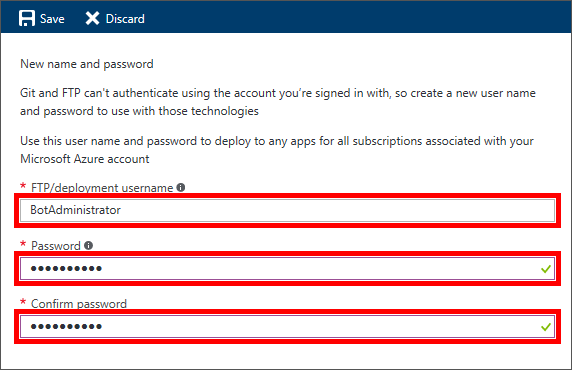
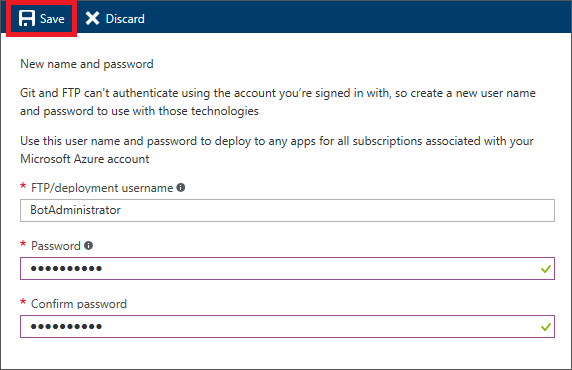
Edited Exercises 1-4 of Bots lab

diff --git a/Workshop/15. Bots/Microsoft Bot Framework HOL.md b/Workshop/15. Bots/Microsoft Bot Framework HOL.md
@@ -47,7 +47,7 @@ This hands-on lab includes the following exercises:
 - [Exercise 2: Update Microsoft QnA Service settings](#Exercise2)
 - [Exercise 3: Populate and publish a QnA knowledge base](#Exercise3)
 - [Exercise 4: Set up continuous integration](#Exercise4)
-- [Exercise 5: Debug our bot](#Exercise5)
+- [Exercise 5: Debug your bot](#Exercise5)
 - [Exercise 6: Update your bot](#Exercise6)
 - [Exercise 7: Test the bot](#Exercise7)
  
@@ -80,7 +80,7 @@ The first step in creating a bot is to provide a location for the bot to be host
 
     _Opening the resource group_
   
-1. Wait until "Deploying" changes to "Succeeded" indicating your Bot Service has been successfully deployed.
+1. Wait until "Deploying" changes to "Succeeded" indicating that the Bot Service was successfully deployed.
 
     ![Successful deployment](Images/portal-app-deployment-status.png)
 
@@ -88,9 +88,9 @@ The first step in creating a bot is to provide a location for the bot to be host
   
 1. Click **qnafactbot** (or the name you entered in Step 3) to open the App Service created for your bot.
 
-    ![Opening the bot service](Images/portal-click-bot-service.png)
+    ![Opening the Bot Service](Images/portal-click-bot-service.png)
 
-    _Opening the bot service_
+    _Opening the Bot Service_
   
 1. Click **Create Microsoft App ID and password**. If you are asked to sign in again, do so using your Microsoft account.
 
@@ -128,13 +128,13 @@ The first step in creating a bot is to provide a location for the bot to be host
 
     _Selecting a language and template_
 
-1. Check the **I agree** box, and then click **OK**. 
+1. Check the **I agree** box, and then click **OK**. (If you are presented with the option of connecting to an existing knowledge base or creating a new one, choose the latter.) 
 
     ![Connecting to QnA Maker](Images/connect-bot-to-qnamaker.png)
 
     _Connecting to QnA Maker_
   
-1. After a short delay, the Bot Service will open in the portal and display the Bot Service editor, as pictured below. The Bot Service has now been created, and the following services have been provisioned and configured:
+1. After a brief pause, the Bot Service will open in the portal and display the Bot Service editor, as pictured below. The Bot Service has now been created, and the following services have been provisioned and configured:
 
 	- A Microsoft Bot registration
 	- A Microsoft App registration
@@ -145,7 +145,7 @@ The first step in creating a bot is to provide a location for the bot to be host
 
     _The Bot Service editor_  
 
-1. To make sure these services can communicate with each other, you can test bot communication in the Azure Bot Service editor. To test, type the word "hi" (without quotation marks) into the chat window on the right side of the page.
+1. To make sure these services can communicate with each other, you can test bot communication in the Azure Bot Service editor. To test, type the word "hi" (without quotation marks) into the chat window on the right side of the page. Then press **Enter** or click the paper-airplane icon (which stands for "Send").
 
     ![Testing bot communication](Images/portal-send-chat-test.png)
 
@@ -212,12 +212,12 @@ Although your bot has been created, it can only understand the word "hi" by resp
 
     _Chatting with the bot_
 
-This is a great start, but a simple reply to the greeting "hi" doesn't demonstrate a lot of value. To give your bot some meaningful content to work with, the next step is to populate the knowledge base with more questions and answers and publish it for your bot to use.
+This is a great start, but a simple reply to the greeting "hi" doesn't demonstrate a lot of value. To give your bot some meaningful content to work with, the next step is to populate the knowledge base with more questions and answers.
 
 <a name="Exercise3"></a>
 ## Exercise 3: Populate and publish a QnA knowledge base ##
 
-The Microsoft QnA Maker tool is designed to understand question and answer pairs from a variety of methods, including automatic population from a website FAQ page, manual entry, or even a tab-separated text file on your local computer. In this exercise, you will use all of these techniques to create a set of question and answer pairs.
+You can enter questions and answers into a QnA Maker knowledge base manually, or you can import them from a variety of sources, including Web sites and local text files. In this exercise, you will use each of these techniques to populate the knowledge base with questions and answers and then publish it for your bot to use.
 
 1. Click **Settings** to the return to the Settings page in the [Microsoft QnA Maker portal](https://qnamaker.ai/).
  
@@ -231,37 +231,37 @@ The Microsoft QnA Maker tool is designed to understand question and answer pairs
 	https://traininglabservices.azurewebsites.net/help/faqs.html
 	```
 
-1. Click **Save and retrain** to instruct QnA Maker to populate the Knowledge Base with questions and answers from the Web site whose URL you provided.
+1. Click **Save and retrain** to populate the knowledge base with questions and answers from the Web site whose URL you provided.
  
-    ![Populating the Knowledge Base with questions and answers](Images/qna-add-faq-url.png)
+    ![Populating the knowledge base with questions and answers](Images/qna-add-faq-url.png)
 
-    _Populating the Knowledge Base with questions and answers_
+    _Populating the knowledge base with questions and answers_
 
 1. Click **Knowledge Base** and confirm that six new questions and answers were added. Then click **Save and retrain** to save the changes.
 
-    ![The updated Knowledge Base](Images/qna-updated-kb-01.png)
+    ![The updated knowledge base](Images/qna-updated-kb-01.png)
 
-    _The updated Knowledge Base_
+    _The updated knowledge base_
 
 1. Click **Test** to return to the Test page. Type "What's the largest city in the world?" into the box at the bottom of the chat window and press **Enter**. Confirm that the bot responds as shown below.
  
-    ![Testing the updated Knowledge Base](Images/qna-test-largest-city.png)
+    ![Testing the updated knowledge base](Images/qna-test-largest-city.png)
 
-    _Testing the updated Knowledge Base_
+    _Testing the updated knowledge base_
 
 1. The knowledge base only contains a few questions and answers, but can easily be updated to include more. You can even import questions and answers stored in text files on your computer. To demonstrate, click **Replace Knowledge Base** in the upper-left corner of the portal.
  
-    ![Replacing the Knowledge Base](Images/qna-click-replace-kb.png)
+    ![Replacing the knowledge base](Images/qna-click-replace-kb.png)
 
-    _Replacing the Knowledge Base_
+    _Replacing the knowledge base_
 
 1. Browse to the "Resources" folder included with this lab and select the text file named **Final QnA.txt**. Click **OK** when prompted to confirm that importing this file will overwrite existing questions and answers.
  
 1. Click **Knowledge Base** and confirm that 14 new questions and answers appear in the Knowledge Base. (The six you imported from the URL are still there, despite the fact that you were warned that they would be overwritten.) Then click **Save and retrain** to save the changes.
 
-    ![The updated Knowledge Base](Images/qna-updated-kb-02.png)
+    ![The updated knowledge base](Images/qna-updated-kb-02.png)
 
-    _The updated Knowledge Base_
+    _The updated knowledge base_
 
 1. Click **Test** to return to the Test page. Type "What book has sold the most copies?" into the box at the bottom of the chat window and press **Enter**. Confirm that the bot responds as shown below. 
  
@@ -269,7 +269,7 @@ The Microsoft QnA Maker tool is designed to understand question and answer pairs
 
     _Chatting with the bot_
 
-1. The Knowledge Base now contains 20 questions and answers, but an invalid character is present in the answer in row 7. To remove the character, click **Knowledge Base** to return to the Knowledge Base page. Locate the invalid character in row 7 between the words "most" and "Emmys," and replace it with a space character. Then click **Save and retrain**.
+1. The knowledge base now contains 20 questions and answers, but an invalid character is present in the answer in row 7. To remove the character, click **Knowledge Base** to return to the Knowledge Base page. Locate the invalid character in row 7 between the words "most" and "Emmys," and replace it with a space character. Then click **Save and retrain**.
  
     ![Editing answer #7](Images/qna-invalid-char.png)
 
@@ -277,177 +277,130 @@ The Microsoft QnA Maker tool is designed to understand question and answer pairs
 
 1. Click **Publish** to publish the QnA Knowledge Base so it can be used with a bot.
  
-    ![Publishing knowledge base changes](Images/qna-click-publish.png)
+    ![Publishing the knowledge base](Images/qna-click-publish.png)
 
-    _Publishing knowledge base changes_
+    _Publishing the knowledge base_
 
 1. When asked to "Review your changes,", click **Publish**. After a brief pause, you should be notified that the service has been deployed.
  
-    ![Reviewing knowledge base publishing changes](Images/qna-review-publishing-changes.png)
+    ![Reviewing changes](Images/qna-review-publishing-changes.png)
 
-    _Reviewing knowledge base publishing changes_
+    _Reviewing changes_
 
-The QnA Knowledge Base has been populated with questions and answers and published for use in a bot. In the remaining exercises, you will use Visual Studio Code to work with the Microsoft Bot Framework code created for you in [Exercise 1](#Exercise1).
+The QnA knowledge base has been populated with questions and answers and published for use in a bot. In the remaining exercises, you will use Visual Studio Code to work with the Microsoft Bot Framework code created for you in [Exercise 1](#Exercise1).
 
 <a name="Exercise4"></a>
 ## Exercise 4: Set up continuous integration ##
 
 Publishing changes to your bot project often involves a number of steps, since you typically work with code in a local development environment, such as Visual Studio Code, but the final code needs to exist somewhere bot users can easily access. Since an Azure Bot Service is a type of Azure App Service, you can leverage the "continuous integration" feature of Azure App Services to keep your code synchronized with external repositories, such as Visual studio Team Services or GitHub.
 
-1. Open the Azure Portal dashboard (if it’s not already open from Exercise 1) and click the **“hamburger”** icon to open the side drawer menu.
-1. Click **Resource Groups** followed by **BotsResourceGroup**.
+1. Return to the Azure Portal and open the Bot Service you created in [Exercise 1](#Exercise1) if it isn't already open.
 
-    ![Opening the resource group](Images/portal-open-resource-group.png)
+    ![Opening the Bot Service](Images/portal-click-bot-service.png)
 
-    _Opening the resource group_
+    _Opening the Bot Service_
   
-1. Select the **Overview** tab.
-1. Click **qnafactbot** (or the name you used to create the Azure Bot Service in Exercise 1, Step 3) to open the Azure Bot Service editor for the bot.
+1. Click **Settings**, and then click **Configure**.
 
-    ![Opening the bot service](Images/portal-click-bot-service.png)
+    ![Expanding the "Continuous integration" panel](Images/portal-expand-configure.png)
 
-    _Opening the bot service_
+    _Expanding the "Continuous integration" panel_
   
-1. Select the **Settings** tab in the Bot Service editor. 
-1. Expand the **Configure** node under the "Continuous integration" group.
+1. Click the link to the zip file containing source code. Once the download is complete, unzip the zip file and copy its contents to the local folder of your choice.
 
-    ![Expanding the Continuous integration Configure node](Images/portal-expand-configure.png)
+    ![Downloading the source code](Images/portal-click-download-source.png)
 
-    _Expanding the Continuous integration Configure node_
+    _Downloading the source code_
   
-1. Click the zip file link referenced to the right of "Download your source code".
+1. Scroll down the page and click the **Open** button to the right of "Advanced Settings."
 
-    ![Generating the bot project archive file](Images/portal-click-download-source.png)
+    ![Opening advanced settings](Images/portal-open-advanced-settings.png)
 
-    _Generating the bot project archive file_
-  
-1. After a short delay, the Azure Bot Service will prompt you to save the generated zip file to your local computer. Follow the prompts from your browser to save this file to a location on your local computer, and then extract/unzip the zip file to a location for local use. 
+    _Opening advanced settings_  
 
-    ![Saving the generated archive file](Images/fe-extract-project-archive.png)
+1. Click **Deployment credentials**.
 
-    _Saving the generated archive file_  
+    ![Viewing deployment credentials](Images/portal-select-deployment-credentials.png)
 
-Your Microsoft Bot Framework code is now available on your local computer.
+    _Viewing deployment credentials_  
 
-1. Still in the "Settings" tab of Azure Portal dashboard, locate the "Advanced Settings" panel and click **Open** to open the Azure Bot Service App Service blade.
+1. Enter a user name such as "BotAdministrator" (you will probably have to use a different user name since these must be unique within Azure) and enter "Password_1" as the password. Click **Save** to save your changes. Then close the blade by clicking the **x** in the upper-right corner.
 
-    ![Opening the Advanced Settings blade](Images/portal-open-advanced-settings.png)
+    ![Entering deployment credentials](Images/portal-enter-ci-creds.png)
 
-    _Opening the Advanced Settings blade_  
+    _Entering deployment credentials_  
 
-1. In the "App Deployment" group, click **Deployment Credentials**.
-
-    ![Opening Deployment Credential settings](Images/portal-select-deployment-credentials.png)
-
-    _Opening Deployment Credential settings_  
-
-1. Type in a user name, such as "BotAdministrator" (without quotation marks) in the **FTP/deployment username** entry. This is the username you will use when deploying your bot code throughout the remainder of this lab.
-1. Type in "Password_1" (again, without quotation marks) in the **Password** entry, and then enter it one more time in the **Confirm password** entry. This is the password you will use when deploying your bot code throughout the remainder of this lab.
-
-    ![Entering continuous integration credentials](Images/portal-enter-ci-creds.png)
-
-    _Entering continuous integration credentials_  
-
-1. Click **Save** in the "Deployment credentials" blade to save your credential changes. 
-
-    ![Saving continuous integration credentials](Images/portal-saving-ci-creds.png)
-
-    _Saving continuous integration credentials_  
-
-1. Close the "Deployment credentials" blade by clicking the **"x"** in the top right corner of the blade to return to the Azure Bot Service editor.
- 
-    ![Closing the Deployment credentials blade](Images/portal-close-ci-blade.png)
-
-    _Closing the Deployment credentials blade_  
-
-1. In the "Continuous integration" panel, click **Set up integration source** to open the "Deployments" panel.
+1. Click **Set up integration source**.
  
     ![Setting up an integration source](Images/portal-click-set-source.png)
 
     _Setting up an integration source_  
 
-1. In the "Deployments" panel click **Setup**, and then **Choose Source**.
+1. Click **Setup**, followed by **Choose Source**.
  
-    ![Selecting an integration source](Images/portal-select-source.png)
+    ![Choosing a deployment source](Images/portal-select-source.png)
 
-    _Selecting an integration source_  
+    _Choosing a deployment source_  
 
 1. Select **Local Git Repository** as the deployment source, and then click **OK**. 
  
-    ![Selecting Local Git Repository as the integration source](Images/portal-set-local-git.png)
+    ![Specifying a local Git repository as the deployment source](Images/portal-set-local-git.png)
 
-    _Selecting Local Git Repository as the integration source_  
+    _Specifying a local Git repository as the deployment source_  
 
-	Azure Bot Service continuous integration is now enabled and you can start working with a local copy of the bot code in Visual Studio Code.
-
-	If you haven't installed Visual Studio Code, take a moment to do so now. You can download Visual Studio Code from http://code.visualstudio.com. You should also install [Node.js](https://nodejs.org) and [Git Client](https://git-scm.com/downloads), if it isn't already installed. All these products work cross-platform and can be installed on Windows, macOS, or Linux.
+1. If you haven't installed Visual Studio Code, take a moment to do so now. You can download Visual Studio Code from http://code.visualstudio.com. You should also install [Node.js](https://nodejs.org) and [Git Client](https://git-scm.com/downloads) if they aren't already installed. All of these products work cross-platform and can be installed on Windows, macOS, or Linux.
 
 	> An easy way to determine whether Node.js is installed is to open a terminal window or Command Prompt window and execute a **node -v** command. If the Node.js version number is displayed, then Node.js is installed.
 
-1. Open Visual Studio Code.
-1. From the Visual Studio Code menu select **File** > **Open Folder**, and browse to the archive content extracted in Step 8, then select the **messages** folder and click **Open**.
+1. Start Visual Studio Code. Select **Open Folder** from the **File** menu and browse to the folder to which you copied the contents of the downloaded zip file in Step 3. Then select the "messages" folder and click **Select Folder**.
  
-    ![Opening a folder in Visual Studio Code](Images/vs-open-folder.png)
+    ![Selecting the "messages" folder](Images/fe-select-messages-folder.png)
 
-    _Opening a folder in Visual Studio Code_  
+    _Selecting the "messages" folder_  
 
-    ![Selecting the bot service code messages folder](Images/fe-select-messages-folder.png)
-
-    _Selecting the bot service code messages folder_  
-
-1. Click the **Git** button in the View Bar on the left side of Visual Studio Code, and then click **Initialize Git Repository**. This will initialize a Git repository for the bot project locally.
+1. Click the **Git** button in the ribbon on the left, and then click **Initialize Git Repository**. This will initialize a local Git repository for the project.
 
     ![Initializing the local Git repository](Images/vs-init-git-repo.png)
 
     _Initializing the local Git repository_  
 
-1. Locate the Git commit label window and type in "First commit" in the message entry, and then click the **checkmark icon** to commit your initial project to your local repository. After a short delay, your bot code will be committed to the local Git repository.
+1. Type "First commit" into the message box, and then click the check mark to commit your changes.
 
-    ![Committing bot code to the local Git repository](Images/vs-first-git-commit.png)
+    ![Committing changes to the local Git repository](Images/vs-first-git-commit.png)
 
-    _Committing bot code to the local Git repository_  
+    _Committing changes to the local Git repository_  
 
-1. Still, in Visual Studio Code, select **View** > **Integrated Terminal**.
+1. Use Visual Studio Code's **View -> Integrated Terminal** command to open an integrated terminal window inside Visual Studio Code. Execute the following command in the integrated terminal, replacing "[BOT_APP_NAME]" in two places with the name of the Bot Service you entered in [Exercise 1](#Exercise1), Step 3.
 
-    ![Opening the Integrated Terminal](Images/vs-view-terminal.png)
+	```
+	git remote add qnafactbot https://[BOT_APP_NAME].scm.azurewebsites.net:443/[BOT_APP_NAME].git
+	```
 
-    _Opening the Integrated Terminal_  
+1. Select **Command Palette** from the **View** menu to open the command palette. Then type "Git Pub" into the command palette and select **Git Publish**. 
 
-1. Execute the following command in the Integrated Terminal, replacing the values "[BOT_APP_NAME]" with the name of your bot service created in Exercise 1.
+    ![Selecting "Git: Publish" from the command palette](Images/vs-select-git-publish.png)
 
-```
-git remote add qnafactbot https://[BOT_APP_NAME].scm.azurewebsites.net:443/[BOT_APP_NAME].git
-```
+    _Selecting "Git: Publish" from the command palette_  
 
-1. Select **View**  > **Command Palette** to open the VS Code command palette, and then type in "Git Pub" in the command palette and select **Git Publish**. 
-
-    ![Opening the Command Palette](Images/vs-view-command-palette.png)
-
-    _Opening the Command Palette_  
-
-    ![Selecting Git: Publish from the Command Palette](Images/vs-select-git-publish.png)
-
-    _Selecting Git: Publish from the Command Palette_  
-
-1. If prompted to confirm publishing, review the dialog information and click **Publish**.
+1. If prompted to confirm that you want to publish, click **Publish**.
 
     ![Confirming Git publishing](Images/vs-confirm-publish.png)
 
     _Confirming Git publishing_ 
 
-1. If prompted for credentials, enter the Continuous Integration **username** and **password** configured in Steps 3 and 4 of this exercise.
+1. If prompted for credentials, enter the user name and password ("Password_1") you specified in Step 6 of this exercise.
 
-    ![Entering Continuous Integration credentials for Git publishing](Images/vs-enter-git-creds.png)
+    ![Entering deployment credentials](Images/vs-enter-git-creds.png)
 
-    _Entering Continuous Integration credentials for Git publishing_ 
+    _Entering deployment credentials_ 
 
-	After a short delay, your bot code will be published to the Azure Bot Service via continuous integration. A visual indicator over the Git button in the View Bar will display a clock indicator while publishing is in progress.
+1. Wait until your bot code has been published. A clock will appear over the Git button in the ribbon on the left while publishing is in progress, and disappear when publishing is complete.
 
     ![The Git publishing indicator](Images/vs-git-delay-icon.png)
 
     _The Git publishing indicator_ 
 
-In this exercise, you created a local copy of your bot project and setup continuous integration to simplify publishing bot code changes to your Azure Bot Service via a local Git repository. Your initial bot code has been published to Azure and it's time to start seeing your bot in action by learning how to debug bots in Visual Studio Code.
+In this exercise, you created a local copy of your bot project and set up continuous integration to simplify publishing bot code changes to your Azure Bot Service via a local Git repository. Your initial bot code has been published to Azure and it's time to see your bot in action and learn how to debug it in Visual Studio Code.
 
 <a name="Exercise5"></a>
 ## Exercise 5: Debug your bot ##
